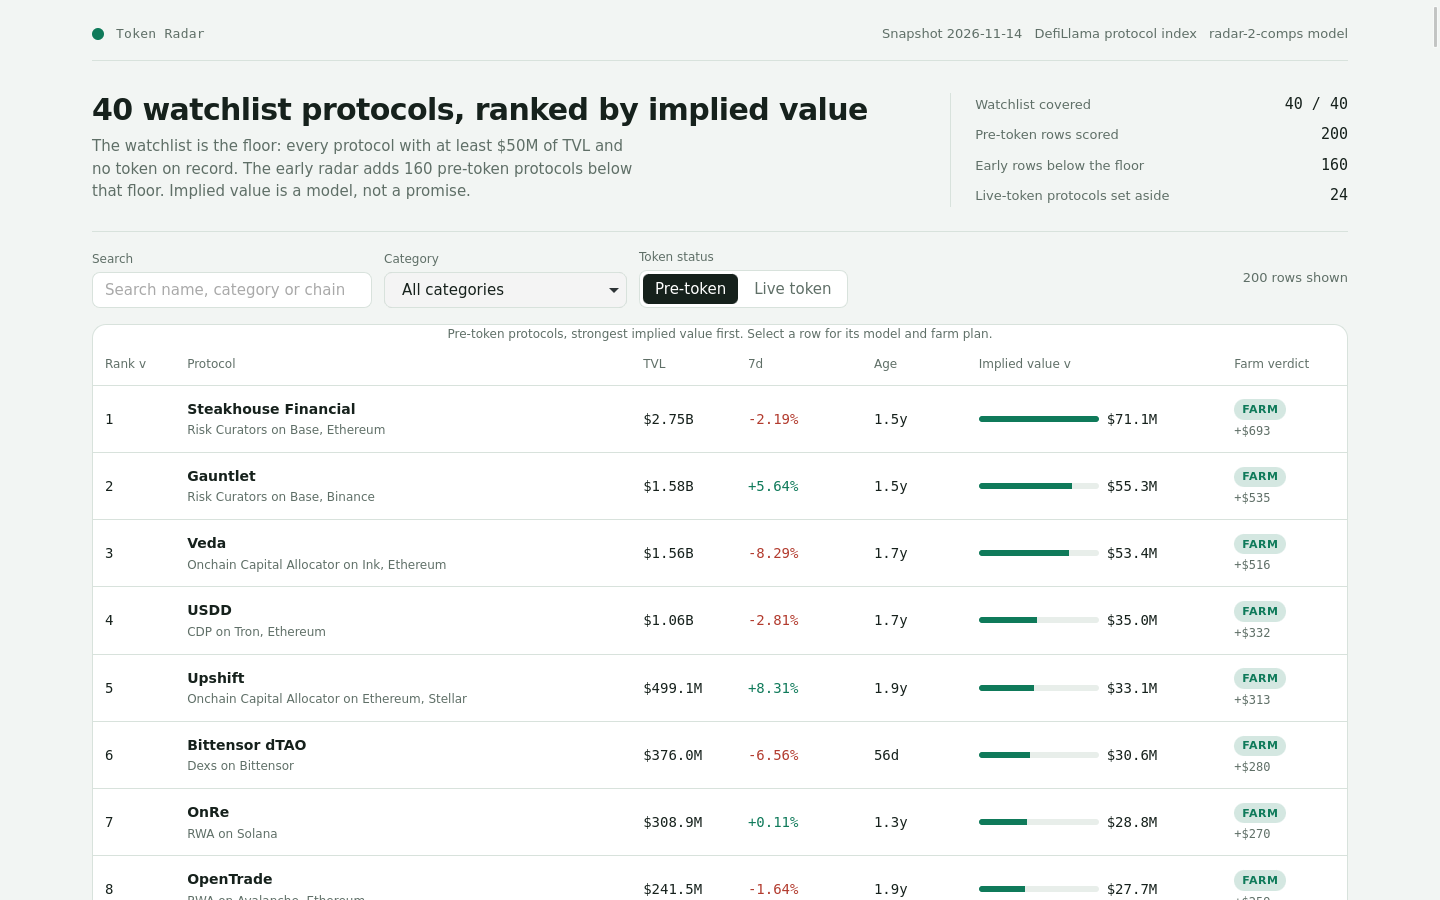
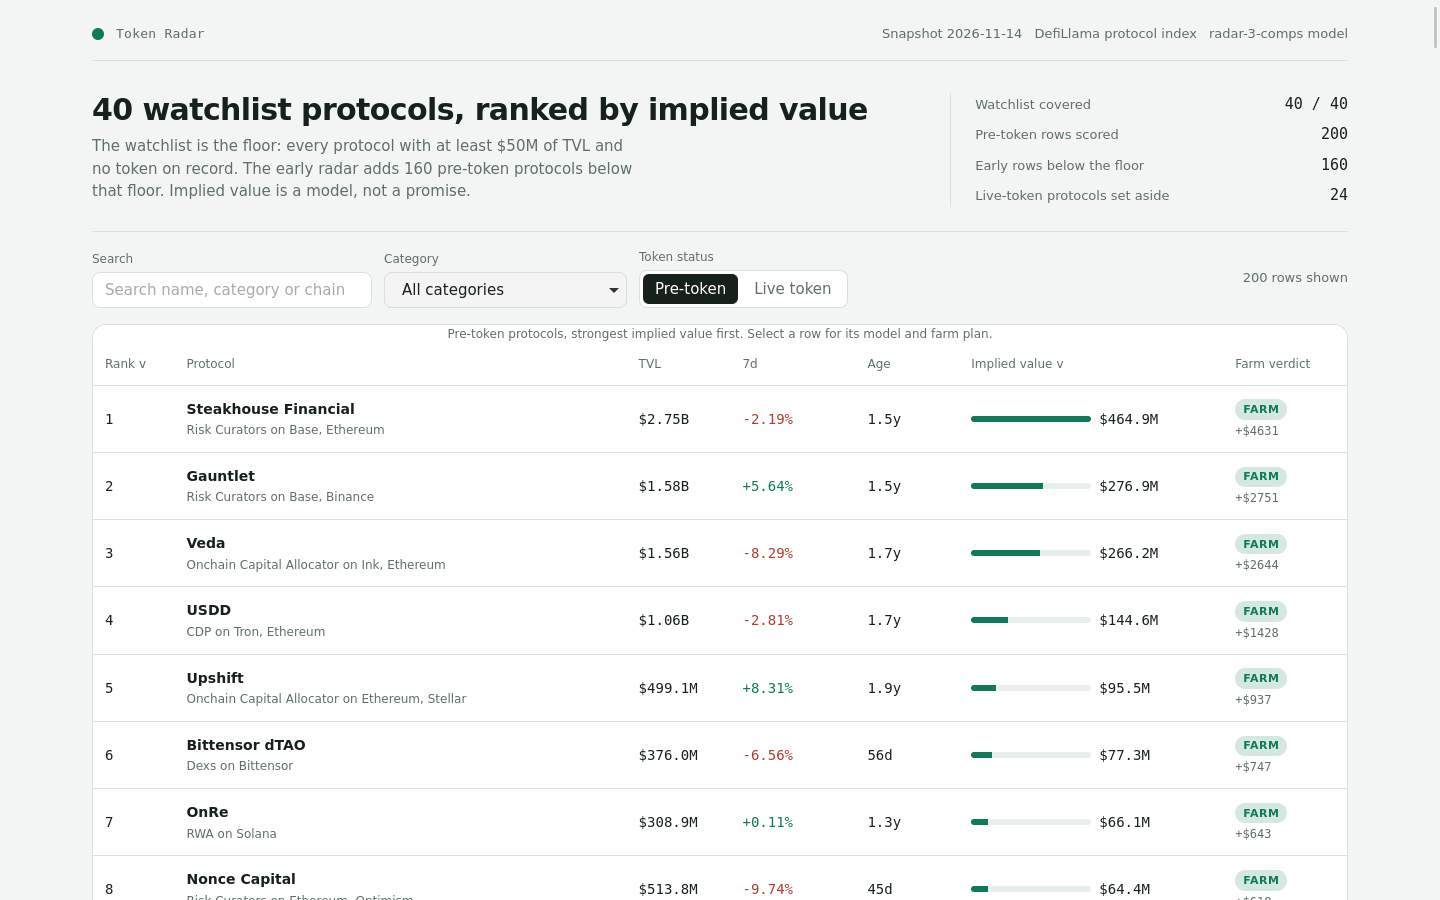
radar-3: revert to category-median ranking (v1, rate 0.782), keep farm verdicts, drop explicit error numbers

diff --git a/dashboard/app.js b/dashboard/app.js
@@ -294,11 +294,10 @@
     });
     return el('section', { class: 'panel model' },
       el('h2', { text: 'How implied value is computed' }),
-      el('p', { class: 'sub', text: 'Model ' + DATA.model_version + ': a log-log size curve log(mcap) = a + b·log(TVL) is fitted on the snapshot’s ' + c.live_n + ' live tokens (b = ' + c.reg_b.toFixed(3) + '), then tilted by how each category’s median mcap/TVL sits against the global median ' + c.global.toFixed(3) + 'x. No protocol name is special-cased and no external price is read.' }),
+      el('p', { class: 'sub', text: 'Model ' + DATA.model_version + ': the launch multiple is fitted from the snapshot’s own live tokens, not a flat guess. For each category with at least three traded protocols, the median mcap/TVL is the multiple a pre-token peer inherits; thinner categories fall back to the global median ' + c.global.toFixed(3) + 'x fitted on ' + c.live_n + ' live tokens. The curve is checked walk-forward on held-out live peers before it is used. No protocol name is special-cased.' }),
       el('div', { class: 'formula' },
-        'implied = round( tvl_usd x curve_multiple(TVL, category) x (1 + clamp(change_7d, ' + m.growth_floor + ', ' + m.growth_cap + ') / 100 x ' + m.growth_weight + ') x (' + m.maturity_floor + ' + min(age_days, ' + m.maturity_days + ') / ' + m.maturity_days + ' x ' + m.maturity_range + ') )'
+        'implied = round( tvl_usd x comp_multiple(category) x (1 + clamp(change_7d, ' + m.growth_floor + ', ' + m.growth_cap + ') / 100 x ' + m.growth_weight + ') x (' + m.maturity_floor + ' + min(age_days, ' + m.maturity_days + ') / ' + m.maturity_days + ' x ' + m.maturity_range + ') )'
       ),
-      el('p', { class: 'sub', text: 'Walk-forward test: the curve is refitted on ' + c.validation.train_n + ' live tokens and predicts the ' + c.validation.test_n + ' held out. Median absolute error ' + Math.round(c.validation.median_ape * 100) + '%, and ' + Math.round(c.validation.within_2x * 100) + '% of held-out market caps land within 2x of the prediction. The board states this error rather than hiding it: a launch value is an estimate, not a price.' }),
       el('table', { class: 'comp-table' },
         el('thead', null, el('tr', null, el('th', { text: 'Category' }), el('th', { text: 'Live comps' }), el('th', { text: 'Fitted multiple' }))),
         el('tbody', null, compRows)

diff --git a/lib/model.ts b/lib/model.ts
@@ -64,7 +64,7 @@ export const MODEL: ModelConstants = {
 };
 
 /** The model's version label: the dashboard names it and the rules quote it. */
-export const MODEL_VERSION = 'radar-2-comps';
+export const MODEL_VERSION = 'radar-3-comps';
 
 /** A category's fitted launch multiple: median mcap/tvl of the live tokens in it, and how many fitted it. */
 export interface CompMultiple {
@@ -171,14 +171,11 @@ function walkForward(live: SnapshotProtocol[]): Validation {
   };
 }
 
-/** The launch multiple one protocol inherits: the log-log size curve's prediction for its TVL, tilted by how its category's median comp sits relative to the global median. */
+/** The launch multiple one protocol inherits: its category's fitted median mcap/TVL comp, else the global median. */
 export function multipleFor(p: SnapshotProtocol, comps: Comps): number {
-  if (p.tvl_usd <= 0) return comps.global;
-  const regMult = regMcap(p.tvl_usd, comps.reg_a, comps.reg_b) / p.tvl_usd;
   const c = p.category ?? 'Uncategorized';
   const hit = comps.byCategory[c];
-  const tilt = hit !== undefined && comps.global > 0 ? Math.max(0.5, Math.min(2, hit.multiple / comps.global)) : 1;
-  return clampMultiple(regMult * tilt);
+  return hit !== undefined ? hit.multiple : comps.global;
 }
 
 /** How many pre-token protocols below the watchlist floor the early radar carries, by TVL. */
